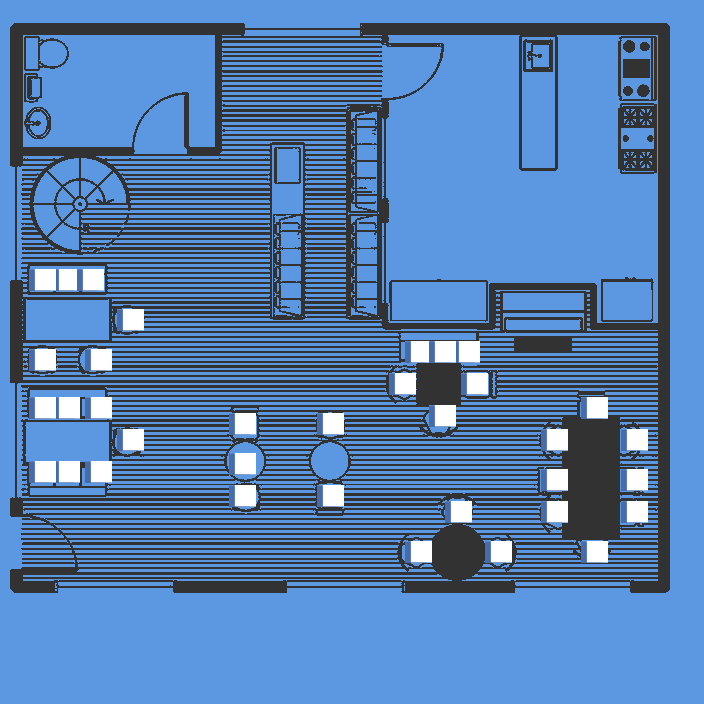
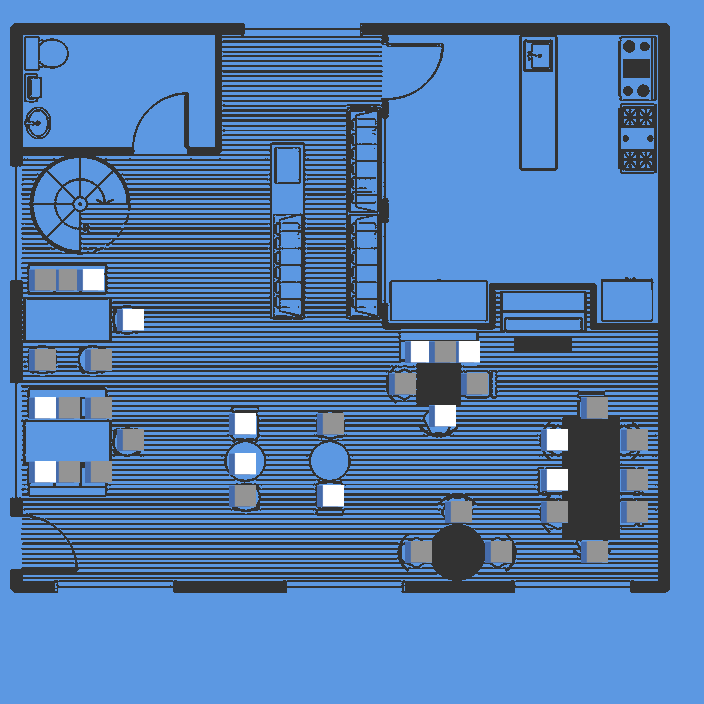
GUI fixes

diff --git a/Server/Node Manager/config.py b/Server/Node Manager/config.py
@@ -15,7 +15,7 @@ from os.path import dirname as dir, splitext, basename, join
 import sys
 import base64
 import res_info as res
-from multiprocessing import Process, Pipe
+from multiprocessing import Process, Pipe, Queue
 import threading
 import random
 import time
@@ -50,6 +50,8 @@ password = None
 port = '6379'
 """
 mutex = threading.Lock()
+mutex1 = threading.Lock()
+r = Queue()
 
 available_restaurants_name = None
 nodeOn = None
@@ -127,8 +129,10 @@ class ResServer(object):
         client = redis.Redis(host=self.remote_host, port=self.port,
                              db=0, password=self.password, decode_responses=True)
         while(True):
-            mutex.acquire()
+            
             for i in range(len(self.available_restaurants_name)):
+                if(r.empty() is False and r.get() == '1'):
+                    self.randomize()
 
                 print("checking...", self.available_restaurants_name[i])
 
@@ -142,13 +146,13 @@ class ResServer(object):
                 if self.restaurants[i].occupancy != occupancy:
                     imageupdate(self.restaurants[i], occupancy)
                 # You can change update frequency from here. The scan is asynchronous
-            mutex.release()
-            time.sleep(5)
+                
+                time.sleep(1)
+ 
 
 
     def randomize(self):
-        global mutex
-
+        global mutex1
         print("hi")
         for i in range(len(self.available_restaurants_name)):
             print(self.available_restaurants_name[i])
@@ -162,32 +166,26 @@ class ResServer(object):
                 new_occupancy[i] = random.randint(0, 1)
 
             cfg.database.client.hmset(full_name_occupancy, new_occupancy)
-        mutex.release()
-        time.sleep(5)
 
 q = None
 
 def main():
-    global mutex, q
+    global mutex, mutex1, q
     userID = 'NUS'
     cfg.database.timeout()
     x = ResServer(userID)
     
     p = Process(target= x.scan_update)
     q = Process(target = x.randomize)
-
-
     p.start()
-    
+    q.start()
     _q = ""
+    
     while _q != 'q':
         _q = input("input")
         print("this is ", str(_q))
-        if _q  != "x":
-            if mutex.acquire():
-                q.start()
-
-
+        if _q == 'x':
+            r.put("1")
 
 if __name__ == '__main__':
     main()
